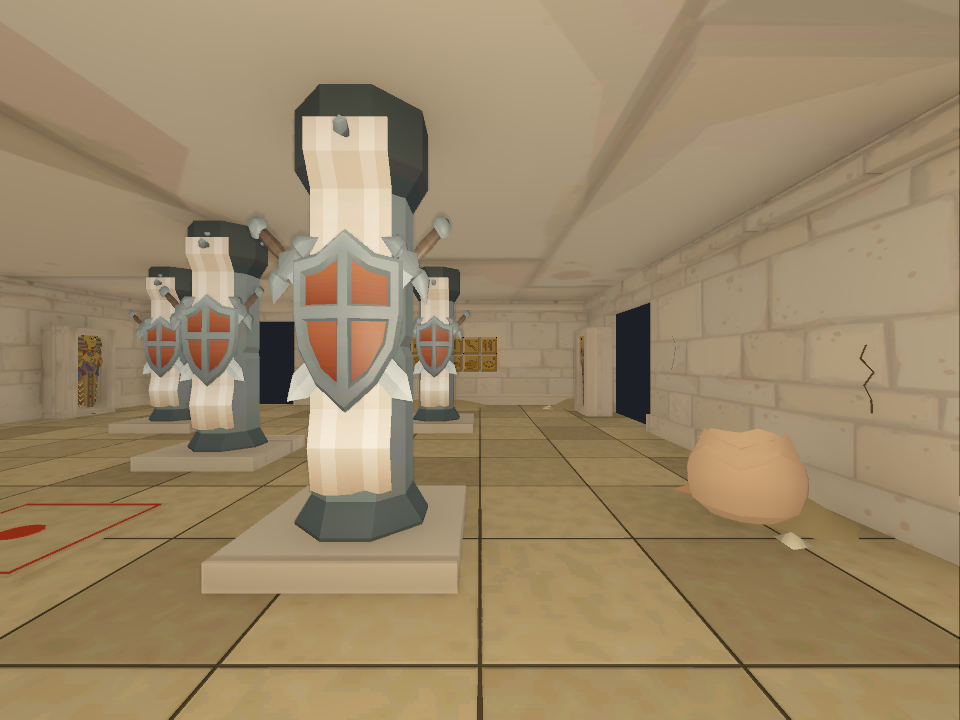
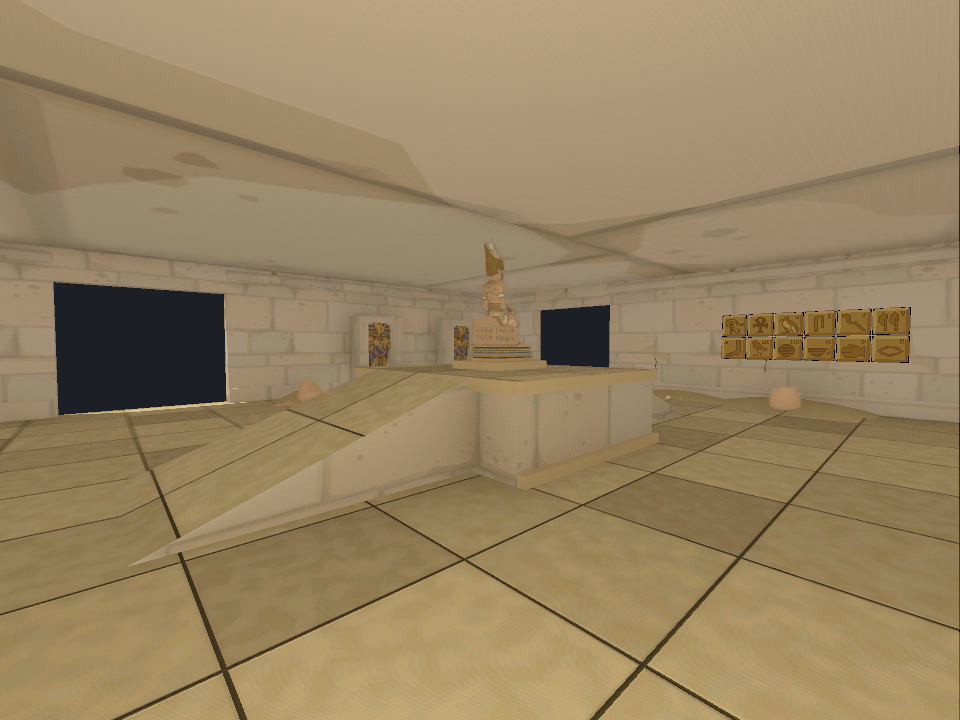
Redesign Pillar Hall as the Offering Court

diff --git a/site/index.html b/site/index.html
@@ -68,9 +68,9 @@
 <tr id="long_trap_gallery" data-search="long trap gallery long_trap_gallery room standard" data-kind="Room" data-category="standard" data-name="Long Trap Gallery" data-area="192.0"><th scope="row"><a class="permalink" href="#long_trap_gallery">Long Trap Gallery</a><span class="tag">Room</span><span class="dimensions">8 × 24 m · 2 doorways</span><details><summary>Source</summary><code>levels/trenchbroom/maps/migrated/long_trap_gallery.map</code></details></th><td data-label="Top down"><a class="shot" href="images/long_trap_gallery/top.webp" data-title="Long Trap Gallery · Top down"><img src="images/long_trap_gallery/top.webp" width="960" height="720" loading="lazy" alt="Long Trap Gallery — Top down"></a></td><td data-label="Interior 1"><a class="shot" href="images/long_trap_gallery/interior-1.webp" data-title="Long Trap Gallery · Interior 1"><img src="images/long_trap_gallery/interior-1.webp" width="960" height="720" loading="lazy" alt="Long Trap Gallery — Interior 1"></a></td><td data-label="Interior 2"><a class="shot" href="images/long_trap_gallery/interior-2.webp" data-title="Long Trap Gallery · Interior 2"><img src="images/long_trap_gallery/interior-2.webp" width="960" height="720" loading="lazy" alt="Long Trap Gallery — Interior 2"></a></td></tr>
 <tr id="obelisk_junction" data-search="obelisk junction obelisk_junction room standard" data-kind="Room" data-category="standard" data-name="Obelisk Junction" data-area="256.0"><th scope="row"><a class="permalink" href="#obelisk_junction">Obelisk Junction</a><span class="tag">Room</span><span class="dimensions">16 × 16 m · 4 doorways</span><details><summary>Source</summary><code>levels/trenchbroom/maps/migrated/obelisk_junction.map</code></details></th><td data-label="Top down"><a class="shot" href="images/obelisk_junction/top.webp" data-title="Obelisk Junction · Top down"><img src="images/obelisk_junction/top.webp" width="960" height="720" loading="lazy" alt="Obelisk Junction — Top down"></a></td><td data-label="Interior 1"><a class="shot" href="images/obelisk_junction/interior-1.webp" data-title="Obelisk Junction · Interior 1"><img src="images/obelisk_junction/interior-1.webp" width="960" height="720" loading="lazy" alt="Obelisk Junction — Interior 1"></a></td><td data-label="Interior 2"><a class="shot" href="images/obelisk_junction/interior-2.webp" data-title="Obelisk Junction · Interior 2"><img src="images/obelisk_junction/interior-2.webp" width="960" height="720" loading="lazy" alt="Obelisk Junction — Interior 2"></a></td></tr>
 <tr id="obelisk_terrace" data-search="obelisk terrace obelisk_terrace room standard" data-kind="Room" data-category="standard" data-name="Obelisk Terrace" data-area="576.0"><th scope="row"><a class="permalink" href="#obelisk_terrace">Obelisk Terrace</a><span class="tag">Room</span><span class="dimensions">24 × 24 m · 4 doorways</span><details><summary>Source</summary><code>levels/trenchbroom/maps/migrated/obelisk_terrace.map</code></details></th><td data-label="Top down"><a class="shot" href="images/obelisk_terrace/top.webp" data-title="Obelisk Terrace · Top down"><img src="images/obelisk_terrace/top.webp" width="960" height="720" loading="lazy" alt="Obelisk Terrace — Top down"></a></td><td data-label="Interior 1"><a class="shot" href="images/obelisk_terrace/interior-1.webp" data-title="Obelisk Terrace · Interior 1"><img src="images/obelisk_terrace/interior-1.webp" width="960" height="720" loading="lazy" alt="Obelisk Terrace — Interior 1"></a></td><td data-label="Interior 2"><a class="shot" href="images/obelisk_terrace/interior-2.webp" data-title="Obelisk Terrace · Interior 2"><img src="images/obelisk_terrace/interior-2.webp" width="960" height="720" loading="lazy" alt="Obelisk Terrace — Interior 2"></a></td></tr>
+<tr id="pillar_hall" data-search="offering court pillar_hall room standard" data-kind="Room" data-category="standard" data-name="Offering Court" data-area="256.0"><th scope="row"><a class="permalink" href="#pillar_hall">Offering Court</a><span class="tag">Room</span><span class="dimensions">16 × 16 m · 4 doorways</span><details><summary>Source</summary><code>levels/trenchbroom/maps/migrated/pillar_hall.map</code></details></th><td data-label="Top down"><a class="shot" href="images/pillar_hall/top.webp" data-title="Offering Court · Top down"><img src="images/pillar_hall/top.webp" width="960" height="720" loading="lazy" alt="Offering Court — Top down"></a></td><td data-label="Interior 1"><a class="shot" href="images/pillar_hall/interior-1.webp" data-title="Offering Court · Interior 1"><img src="images/pillar_hall/interior-1.webp" width="960" height="720" loading="lazy" alt="Offering Court — Interior 1"></a></td><td data-label="Interior 2"><a class="shot" href="images/pillar_hall/interior-2.webp" data-title="Offering Court · Interior 2"><img src="images/pillar_hall/interior-2.webp" width="960" height="720" loading="lazy" alt="Offering Court — Interior 2"></a></td></tr>
 <tr id="offset_terrace_complex" data-search="offset terrace complex offset_terrace_complex room standard" data-kind="Room" data-category="standard" data-name="Offset Terrace Complex" data-area="576.0"><th scope="row"><a class="permalink" href="#offset_terrace_complex">Offset Terrace Complex</a><span class="tag">Room</span><span class="dimensions">24 × 24 m · 2 doorways</span><details><summary>Source</summary><code>levels/trenchbroom/maps/offset_terrace_complex.map</code></details></th><td data-label="Top down"><a class="shot" href="images/offset_terrace_complex/top.webp" data-title="Offset Terrace Complex · Top down"><img src="images/offset_terrace_complex/top.webp" width="960" height="720" loading="lazy" alt="Offset Terrace Complex — Top down"></a></td><td data-label="Interior 1"><a class="shot" href="images/offset_terrace_complex/interior-1.webp" data-title="Offset Terrace Complex · Interior 1"><img src="images/offset_terrace_complex/interior-1.webp" width="960" height="720" loading="lazy" alt="Offset Terrace Complex — Interior 1"></a></td><td data-label="Interior 2"><a class="shot" href="images/offset_terrace_complex/interior-2.webp" data-title="Offset Terrace Complex · Interior 2"><img src="images/offset_terrace_complex/interior-2.webp" width="960" height="720" loading="lazy" alt="Offset Terrace Complex — Interior 2"></a></td></tr>
 <tr id="pendulum_court" data-search="pendulum court pendulum_court room standard" data-kind="Room" data-category="standard" data-name="Pendulum Court" data-area="576.0"><th scope="row"><a class="permalink" href="#pendulum_court">Pendulum Court</a><span class="tag">Room</span><span class="dimensions">24 × 24 m · 2 doorways</span><details><summary>Source</summary><code>levels/trenchbroom/maps/pendulum_court.map</code></details></th><td data-label="Top down"><a class="shot" href="images/pendulum_court/top.webp" data-title="Pendulum Court · Top down"><img src="images/pendulum_court/top.webp" width="960" height="720" loading="lazy" alt="Pendulum Court — Top down"></a></td><td data-label="Interior 1"><a class="shot" href="images/pendulum_court/interior-1.webp" data-title="Pendulum Court · Interior 1"><img src="images/pendulum_court/interior-1.webp" width="960" height="720" loading="lazy" alt="Pendulum Court — Interior 1"></a></td><td data-label="Interior 2"><a class="shot" href="images/pendulum_court/interior-2.webp" data-title="Pendulum Court · Interior 2"><img src="images/pendulum_court/interior-2.webp" width="960" height="720" loading="lazy" alt="Pendulum Court — Interior 2"></a></td></tr>
-<tr id="pillar_hall" data-search="pillar hall pillar_hall room standard" data-kind="Room" data-category="standard" data-name="Pillar Hall" data-area="256.0"><th scope="row"><a class="permalink" href="#pillar_hall">Pillar Hall</a><span class="tag">Room</span><span class="dimensions">16 × 16 m · 4 doorways</span><details><summary>Source</summary><code>levels/trenchbroom/maps/migrated/pillar_hall.map</code></details></th><td data-label="Top down"><a class="shot" href="images/pillar_hall/top.webp" data-title="Pillar Hall · Top down"><img src="images/pillar_hall/top.webp" width="960" height="720" loading="lazy" alt="Pillar Hall — Top down"></a></td><td data-label="Interior 1"><a class="shot" href="images/pillar_hall/interior-1.webp" data-title="Pillar Hall · Interior 1"><img src="images/pillar_hall/interior-1.webp" width="960" height="720" loading="lazy" alt="Pillar Hall — Interior 1"></a></td><td data-label="Interior 2"><a class="shot" href="images/pillar_hall/interior-2.webp" data-title="Pillar Hall · Interior 2"><img src="images/pillar_hall/interior-2.webp" width="960" height="720" loading="lazy" alt="Pillar Hall — Interior 2"></a></td></tr>
 <tr id="pillar_hall_baffles" data-search="pillar hall baffles pillar_hall_baffles room standard" data-kind="Room" data-category="standard" data-name="Pillar Hall Baffles" data-area="256.0"><th scope="row"><a class="permalink" href="#pillar_hall_baffles">Pillar Hall Baffles</a><span class="tag">Room</span><span class="dimensions">16 × 16 m · 4 doorways</span><details><summary>Source</summary><code>levels/trenchbroom/maps/pillar_hall_baffles.map</code></details></th><td data-label="Top down"><a class="shot" href="images/pillar_hall_baffles/top.webp" data-title="Pillar Hall Baffles · Top down"><img src="images/pillar_hall_baffles/top.webp" width="960" height="720" loading="lazy" alt="Pillar Hall Baffles — Top down"></a></td><td data-label="Interior 1"><a class="shot" href="images/pillar_hall_baffles/interior-1.webp" data-title="Pillar Hall Baffles · Interior 1"><img src="images/pillar_hall_baffles/interior-1.webp" width="960" height="720" loading="lazy" alt="Pillar Hall Baffles — Interior 1"></a></td><td data-label="Interior 2"><a class="shot" href="images/pillar_hall_baffles/interior-2.webp" data-title="Pillar Hall Baffles · Interior 2"><img src="images/pillar_hall_baffles/interior-2.webp" width="960" height="720" loading="lazy" alt="Pillar Hall Baffles — Interior 2"></a></td></tr>
 <tr id="pillar_hall_ring" data-search="pillar hall ring pillar_hall_ring room standard" data-kind="Room" data-category="standard" data-name="Pillar Hall Ring" data-area="256.0"><th scope="row"><a class="permalink" href="#pillar_hall_ring">Pillar Hall Ring</a><span class="tag">Room</span><span class="dimensions">16 × 16 m · 4 doorways</span><details><summary>Source</summary><code>levels/trenchbroom/maps/pillar_hall_ring.map</code></details></th><td data-label="Top down"><a class="shot" href="images/pillar_hall_ring/top.webp" data-title="Pillar Hall Ring · Top down"><img src="images/pillar_hall_ring/top.webp" width="960" height="720" loading="lazy" alt="Pillar Hall Ring — Top down"></a></td><td data-label="Interior 1"><a class="shot" href="images/pillar_hall_ring/interior-1.webp" data-title="Pillar Hall Ring · Interior 1"><img src="images/pillar_hall_ring/interior-1.webp" width="960" height="720" loading="lazy" alt="Pillar Hall Ring — Interior 1"></a></td><td data-label="Interior 2"><a class="shot" href="images/pillar_hall_ring/interior-2.webp" data-title="Pillar Hall Ring · Interior 2"><img src="images/pillar_hall_ring/interior-2.webp" width="960" height="720" loading="lazy" alt="Pillar Hall Ring — Interior 2"></a></td></tr>
 <tr id="pit_ledge_room" data-search="pit ledge room pit_ledge_room room standard" data-kind="Room" data-category="standard" data-name="Pit Ledge Room" data-area="128.0"><th scope="row"><a class="permalink" href="#pit_ledge_room">Pit Ledge Room</a><span class="tag">Room</span><span class="dimensions">8 × 16 m · 2 doorways</span><details><summary>Source</summary><code>levels/trenchbroom/maps/migrated/pit_ledge_room.map</code></details></th><td data-label="Top down"><a class="shot" href="images/pit_ledge_room/top.webp" data-title="Pit Ledge Room · Top down"><img src="images/pit_ledge_room/top.webp" width="960" height="720" loading="lazy" alt="Pit Ledge Room — Top down"></a></td><td data-label="Interior 1"><a class="shot" href="images/pit_ledge_room/interior-1.webp" data-title="Pit Ledge Room · Interior 1"><img src="images/pit_ledge_room/interior-1.webp" width="960" height="720" loading="lazy" alt="Pit Ledge Room — Interior 1"></a></td><td data-label="Interior 2"><a class="shot" href="images/pit_ledge_room/interior-2.webp" data-title="Pit Ledge Room · Interior 2"><img src="images/pit_ledge_room/interior-2.webp" width="960" height="720" loading="lazy" alt="Pit Ledge Room — Interior 2"></a></td></tr>

diff --git a/README.md b/README.md
@@ -91,9 +91,9 @@ filters and keyboard navigation between enlarged views.
 | **Long Trap Gallery**<br>Room · 8 × 24 m | <a href="site/images/long_trap_gallery/top.webp"><img src="site/images/long_trap_gallery/top.webp" width="240" alt="Long Trap Gallery — Top down"></a> | <a href="site/images/long_trap_gallery/interior-1.webp"><img src="site/images/long_trap_gallery/interior-1.webp" width="240" alt="Long Trap Gallery — Interior 1"></a> | <a href="site/images/long_trap_gallery/interior-2.webp"><img src="site/images/long_trap_gallery/interior-2.webp" width="240" alt="Long Trap Gallery — Interior 2"></a> |
 | **Obelisk Junction**<br>Room · 16 × 16 m | <a href="site/images/obelisk_junction/top.webp"><img src="site/images/obelisk_junction/top.webp" width="240" alt="Obelisk Junction — Top down"></a> | <a href="site/images/obelisk_junction/interior-1.webp"><img src="site/images/obelisk_junction/interior-1.webp" width="240" alt="Obelisk Junction — Interior 1"></a> | <a href="site/images/obelisk_junction/interior-2.webp"><img src="site/images/obelisk_junction/interior-2.webp" width="240" alt="Obelisk Junction — Interior 2"></a> |
 | **Obelisk Terrace**<br>Room · 24 × 24 m | <a href="site/images/obelisk_terrace/top.webp"><img src="site/images/obelisk_terrace/top.webp" width="240" alt="Obelisk Terrace — Top down"></a> | <a href="site/images/obelisk_terrace/interior-1.webp"><img src="site/images/obelisk_terrace/interior-1.webp" width="240" alt="Obelisk Terrace — Interior 1"></a> | <a href="site/images/obelisk_terrace/interior-2.webp"><img src="site/images/obelisk_terrace/interior-2.webp" width="240" alt="Obelisk Terrace — Interior 2"></a> |
+| **Offering Court**<br>Room · 16 × 16 m | <a href="site/images/pillar_hall/top.webp"><img src="site/images/pillar_hall/top.webp" width="240" alt="Offering Court — Top down"></a> | <a href="site/images/pillar_hall/interior-1.webp"><img src="site/images/pillar_hall/interior-1.webp" width="240" alt="Offering Court — Interior 1"></a> | <a href="site/images/pillar_hall/interior-2.webp"><img src="site/images/pillar_hall/interior-2.webp" width="240" alt="Offering Court — Interior 2"></a> |
 | **Offset Terrace Complex**<br>Room · 24 × 24 m | <a href="site/images/offset_terrace_complex/top.webp"><img src="site/images/offset_terrace_complex/top.webp" width="240" alt="Offset Terrace Complex — Top down"></a> | <a href="site/images/offset_terrace_complex/interior-1.webp"><img src="site/images/offset_terrace_complex/interior-1.webp" width="240" alt="Offset Terrace Complex — Interior 1"></a> | <a href="site/images/offset_terrace_complex/interior-2.webp"><img src="site/images/offset_terrace_complex/interior-2.webp" width="240" alt="Offset Terrace Complex — Interior 2"></a> |
 | **Pendulum Court**<br>Room · 24 × 24 m | <a href="site/images/pendulum_court/top.webp"><img src="site/images/pendulum_court/top.webp" width="240" alt="Pendulum Court — Top down"></a> | <a href="site/images/pendulum_court/interior-1.webp"><img src="site/images/pendulum_court/interior-1.webp" width="240" alt="Pendulum Court — Interior 1"></a> | <a href="site/images/pendulum_court/interior-2.webp"><img src="site/images/pendulum_court/interior-2.webp" width="240" alt="Pendulum Court — Interior 2"></a> |
-| **Pillar Hall**<br>Room · 16 × 16 m | <a href="site/images/pillar_hall/top.webp"><img src="site/images/pillar_hall/top.webp" width="240" alt="Pillar Hall — Top down"></a> | <a href="site/images/pillar_hall/interior-1.webp"><img src="site/images/pillar_hall/interior-1.webp" width="240" alt="Pillar Hall — Interior 1"></a> | <a href="site/images/pillar_hall/interior-2.webp"><img src="site/images/pillar_hall/interior-2.webp" width="240" alt="Pillar Hall — Interior 2"></a> |
 | **Pillar Hall Baffles**<br>Room · 16 × 16 m | <a href="site/images/pillar_hall_baffles/top.webp"><img src="site/images/pillar_hall_baffles/top.webp" width="240" alt="Pillar Hall Baffles — Top down"></a> | <a href="site/images/pillar_hall_baffles/interior-1.webp"><img src="site/images/pillar_hall_baffles/interior-1.webp" width="240" alt="Pillar Hall Baffles — Interior 1"></a> | <a href="site/images/pillar_hall_baffles/interior-2.webp"><img src="site/images/pillar_hall_baffles/interior-2.webp" width="240" alt="Pillar Hall Baffles — Interior 2"></a> |
 | **Pillar Hall Ring**<br>Room · 16 × 16 m | <a href="site/images/pillar_hall_ring/top.webp"><img src="site/images/pillar_hall_ring/top.webp" width="240" alt="Pillar Hall Ring — Top down"></a> | <a href="site/images/pillar_hall_ring/interior-1.webp"><img src="site/images/pillar_hall_ring/interior-1.webp" width="240" alt="Pillar Hall Ring — Interior 1"></a> | <a href="site/images/pillar_hall_ring/interior-2.webp"><img src="site/images/pillar_hall_ring/interior-2.webp" width="240" alt="Pillar Hall Ring — Interior 2"></a> |
 | **Pit Ledge Room**<br>Room · 8 × 16 m | <a href="site/images/pit_ledge_room/top.webp"><img src="site/images/pit_ledge_room/top.webp" width="240" alt="Pit Ledge Room — Top down"></a> | <a href="site/images/pit_ledge_room/interior-1.webp"><img src="site/images/pit_ledge_room/interior-1.webp" width="240" alt="Pit Ledge Room — Interior 1"></a> | <a href="site/images/pit_ledge_room/interior-2.webp"><img src="site/images/pit_ledge_room/interior-2.webp" width="240" alt="Pit Ledge Room — Interior 2"></a> |
